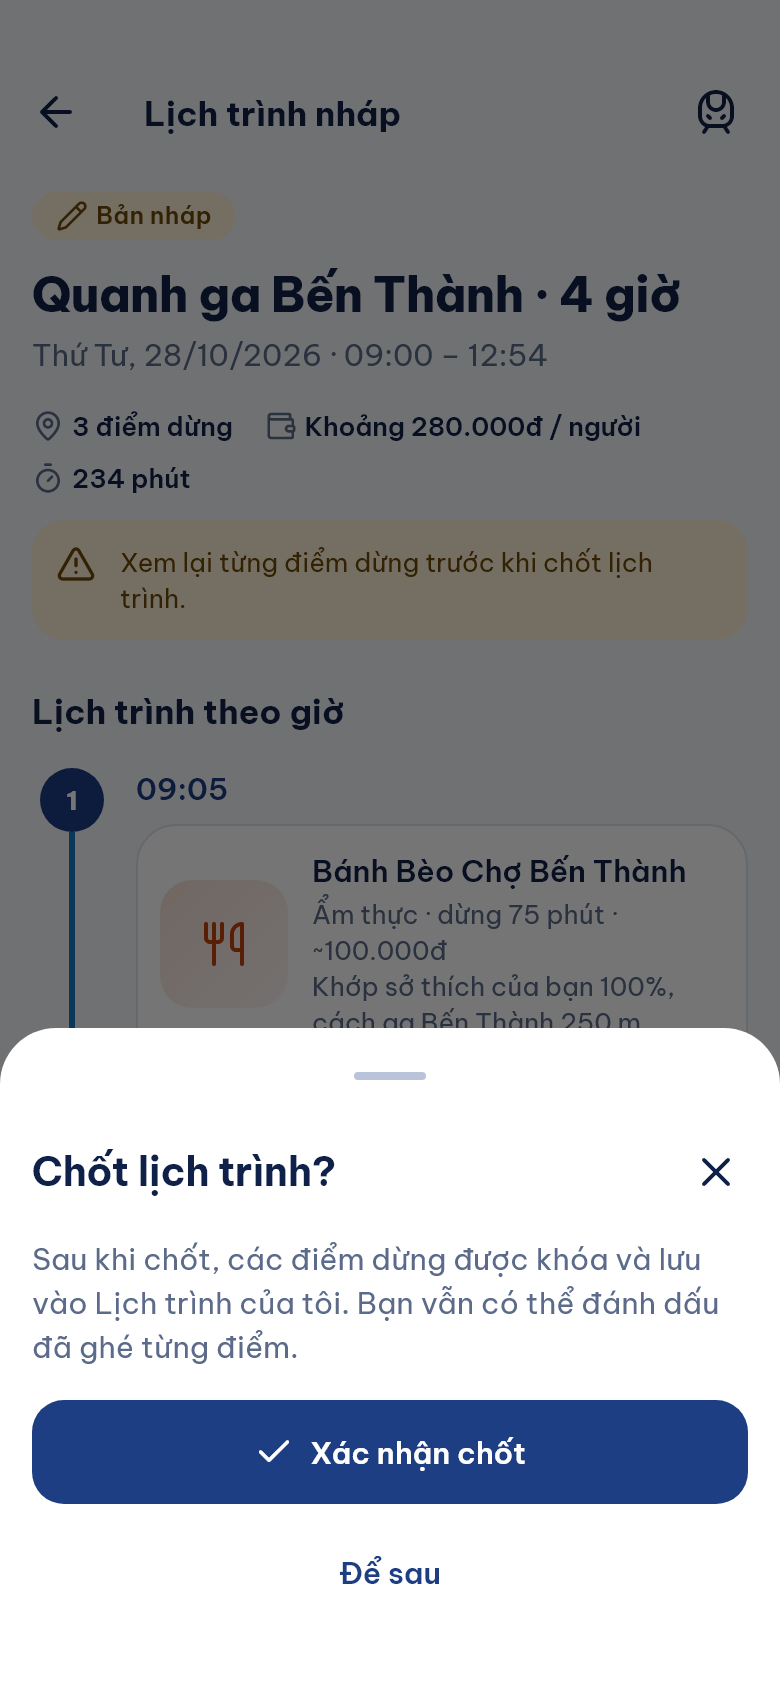
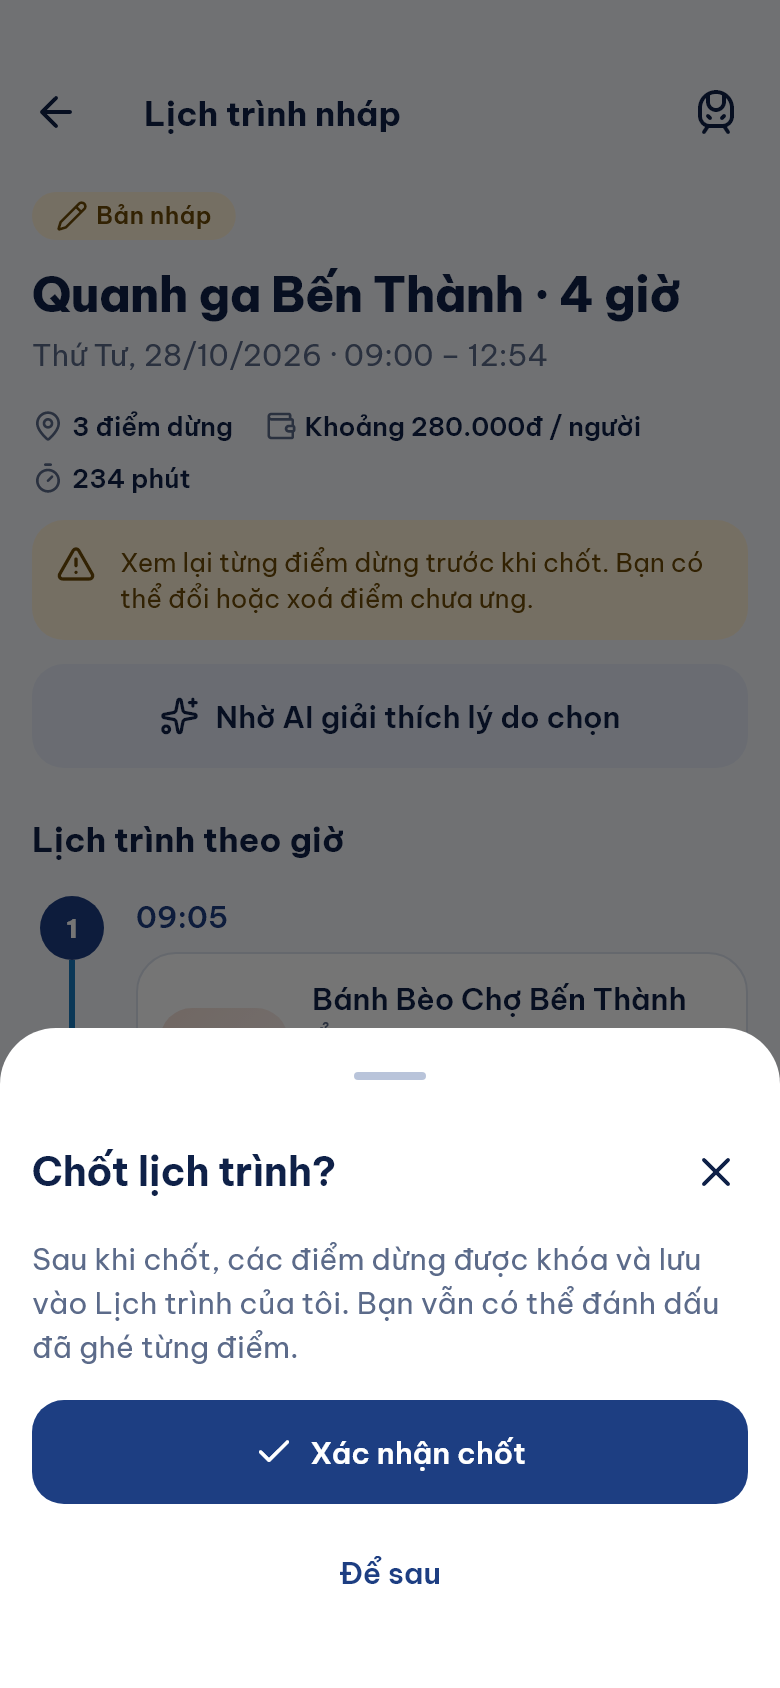
docs+polish: live backend notes, payment waiting state, new screenshots
LIVE_BACKEND.md lists the newly wired endpoints, GOOGLE_SERVER_CLIENT_ID,
and which flows are only checked against contract-shaped responses (no
SMTP, Gemini, PayOS or Google OAuth on the dev backend). Pending payments
get their own art instead of the offline picture; single prices no longer
show as a range.

diff --git a/tool/live_capture_test.dart b/tool/live_capture_test.dart
@@ -14,6 +14,7 @@ import 'package:localmate_ai_mobile/app/localmate_app.dart';
 import 'package:localmate_ai_mobile/app/router.dart';
 import 'package:localmate_ai_mobile/app/ui_providers.dart';
 import 'package:localmate_ai_mobile/features/auth/application/auth_controller.dart';
+import 'package:localmate_ai_mobile/features/trips/application/trips_providers.dart';
 
 import '../test/support/live_backend.dart';
 
@@ -108,8 +109,58 @@ void main() {
     await tap(find.text('Xác nhận chốt'));
     await shot('trip-finalized');
     await tester.pump(const Duration(seconds: 5)); // let the snackbar close
+    await tester.pumpAndSettle();
+
+    // Finalized trip: stop review and trip feedback sheets.
+    await tap(find.widgetWithText(TextButton, 'Đánh giá'));
+    await tap(find.byTooltip('4 sao'));
+    await tap(find.byKey(const ValueKey('review-tag-NearMetro')));
+    await shot('review-sheet');
+    await tap(find.byTooltip('Đóng'));
+    await tap(find.text('Đánh giá chuyến đi'));
+    await tap(find.byKey(const ValueKey('feedback-tag-Suitable')));
+    await shot('feedback-sheet');
+    await tap(find.byTooltip('Đóng'));
+
+    // Draft editing on a fresh draft.
+    backend.finalized = false;
+    container.invalidate(tripDetailProvider(backend.tripId));
+    await tester.pumpAndSettle();
+    await shot('draft-edit');
+    await tap(find.byKey(ValueKey('draft-replace-${backend.secondItemId}')));
+    await shot('replace-sheet');
+    await tap(find.byTooltip('Đóng'));
+
+    // Account: notifications, profile edit, PayOS.
+    router.go('/account');
+    await tester.pumpAndSettle();
+    await tap(find.text('Thông báo'));
+    await shot('notifications');
+    await tap(find.byTooltip('Quay lại'));
+    await tap(find.byKey(const ValueKey('account-section-Sở thích của bạn')));
+    await shot('profile-edit');
+    await tap(find.byTooltip('Quay lại'));
+    backend.payosConfigured = true;
+    await tap(
+      find.byKey(const ValueKey('account-section-Gói & quyền sử dụng')),
+    );
+    await tap(find.byKey(const ValueKey('plan-buy-TripPass')));
+    await shot('checkout-sheet');
+    backend.orderStatuses = ['Pending'];
+    await tap(find.byKey(const ValueKey('checkout-pay')));
+    await shot('payment-pending');
+    backend.orderStatuses = ['Paid'];
+    await tester.pump(const Duration(seconds: 3));
+    await shot('payment-paid');
+
     unawaited(container.read(authProvider.notifier).logout());
     await tester.pumpAndSettle();
+    router.go('/register');
+    await shot('register');
+    router.go('/forgot-password');
+    await shot('forgot-password');
+    router.go('/login');
+    await shot('login-google');
     await tester.pumpWidget(const SizedBox());
     await tester.pump(const Duration(hours: 2)); // flush remaining timers
   });

diff --git a/lib/features/payments/presentation/payment_pages.dart b/lib/features/payments/presentation/payment_pages.dart
@@ -252,7 +252,8 @@ class _PaymentStatusPageState extends ConsumerState<PaymentStatusPage> {
           ),
         ),
         'Pending' => AppStateView(
-          illustration: IllustrationKind.offline,
+          illustration: IllustrationKind.success,
+          art: const _WaitingArt(),
           title: 'Đang chờ thanh toán',
           message:
               'Hoàn tất ${_vnd(order.amount)} trên trang PayOS. Màn hình này tự cập nhật khi LocalMate nhận được xác nhận.',
@@ -292,6 +293,32 @@ class _PaymentStatusPageState extends ConsumerState<PaymentStatusPage> {
       body: SafeArea(
         top: false,
         child: Center(child: SingleChildScrollView(child: body)),
+      ),
+    );
+  }
+}
+
+/// Pending payment art, same footprint as the state illustrations. Static
+/// on purpose: the page polls quietly and the retry button shows progress.
+class _WaitingArt extends StatelessWidget {
+  const _WaitingArt();
+
+  @override
+  Widget build(BuildContext context) {
+    final scheme = context.colors;
+    return ExcludeSemantics(
+      child: Container(
+        width: AppSpacing.xxxl * 3,
+        height: AppSpacing.xxxl * 3,
+        decoration: BoxDecoration(
+          color: scheme.primaryContainer,
+          shape: BoxShape.circle,
+        ),
+        child: Icon(
+          LucideIcons.hourglass,
+          size: AppSpacing.xxxl,
+          color: scheme.primary,
+        ),
       ),
     );
   }

diff --git a/lib/core/widgets/state_views.dart b/lib/core/widgets/state_views.dart
@@ -17,9 +17,13 @@ class AppStateView extends StatelessWidget {
     this.primaryAction,
     this.secondaryAction,
     this.compact = false,
+    this.art,
   });
 
   final IllustrationKind illustration;
+
+  /// Replaces the illustration (e.g. a live progress state).
+  final Widget? art;
   final String title;
   final String message;
   final Widget? primaryAction;
@@ -41,10 +45,11 @@ class AppStateView extends StatelessWidget {
         child: Column(
           mainAxisSize: MainAxisSize.min,
           children: [
-            AppIllustration(
-              kind: illustration,
-              size: compact ? AppSpacing.xxxl * 2 : AppSpacing.xxxl * 3,
-            ),
+            art ??
+                AppIllustration(
+                  kind: illustration,
+                  size: compact ? AppSpacing.xxxl * 2 : AppSpacing.xxxl * 3,
+                ),
             const SizedBox(height: AppSpacing.lg),
             Semantics(
               header: true,

diff --git a/lib/features/trips/presentation/trip_sheets.dart b/lib/features/trips/presentation/trip_sheets.dart
@@ -482,6 +482,8 @@ class _ReplaceStopSheetState extends ConsumerState<_ReplaceStopSheet> {
     categoryLabel(p.category),
     p.costMax <= 0
         ? 'Miễn phí'
+        : p.costMin == p.costMax || p.costMin <= 0
+        ? '${formatVnd(p.costMax)}đ'
         : '${formatVnd(p.costMin)}–${formatVnd(p.costMax)}đ',
     if (p.distanceFromStationMeters != null && p.stationName != null)
       '${p.distanceFromStationMeters} m tới ga ${p.stationName}',

diff --git a/docs/LIVE_BACKEND.md b/docs/LIVE_BACKEND.md
@@ -15,7 +15,12 @@ flutter run --dart-define=API_BASE_URL=http://10.0.2.2:5286
 
 # Production
 flutter build apk --dart-define=APP_ENV=production --dart-define=API_BASE_URL=https://<api-domain>
+
+# Bật đăng nhập Google (client ID loại *web*, trùng GoogleAuth__ClientId của backend)
+flutter run --dart-define=API_BASE_URL=... --dart-define=GOOGLE_SERVER_CLIENT_ID=<web-client-id>.apps.googleusercontent.com
 ```
+
+Không có `GOOGLE_SERVER_CLIENT_ID` thì nút Google bị tắt. Android cần thêm một OAuth client loại Android (package name + SHA-1 của keystore) trong cùng Google Cloud project; việc này cấu hình trên console, không nằm trong mã nguồn.
 
 ## Chạy backend cục bộ để thử
 
@@ -39,23 +44,33 @@ Backend tự migrate và seed dữ liệu: 14 ga, khoảng 65 địa điểm, 3 
 |---|---|
 | Trang chủ / Khám phá / Chi tiết địa điểm | `GET /places/metro-clusters`, `/itineraries/curated`, `/search`, `/places/{id}` |
 | Metro / Chi tiết ga | `GET /master-data`, `/metro/journeys`, `/metro/stations/{order}/departures` |
-| Đăng nhập / phiên | `POST /auth/login`, `GET /users/me`. JWT lưu trong secure storage (namespace riêng với bản mock). Không có refresh token: khi gặp 401 hoặc token hết hạn, app tự đăng xuất và báo "Phiên đăng nhập đã hết hạn" |
-| Planner | `GET /tags` (sở thích), `POST /trips/generate` → mở thẳng lịch trình nháp vừa lưu. Khách chưa đăng nhập được mời đăng nhập trước |
-| Lịch trình của tôi | `GET /trips/my-trips`, `GET /trips/{id}`, `POST /trips/{id}/finalize`, `PUT /trips/items/{id}/visit` |
-| Tài khoản / Gói | `GET /subscription/me` (lượt tạo, lịch trình đã lưu, lượt AI), `GET /subscription/plans` (giá thật), `GET /tags` (tên sở thích đã lưu) |
+| Đăng nhập / phiên | `POST /auth/login`, `POST /auth/google`, `GET /users/me`. JWT lưu trong secure storage (namespace riêng với bản mock). Không có refresh token: khi gặp 401 hoặc token hết hạn, app tự đăng xuất và báo "Phiên đăng nhập đã hết hạn" |
+| Đăng ký (`/register`) | `POST /auth/register` → mã 6 số qua email → `/auth/register/verify`, `/auth/register/resend` (đếm ngược theo `resendAfterSeconds`). Xác thực xong app tự đăng nhập |
+| Quên mật khẩu (`/forgot-password`) | `POST /auth/password-reset/request`, `/auth/password-reset/confirm` |
+| Hồ sơ & cá nhân hóa | `PATCH /users/me` (tên, sở thích, phong cách), tên tag từ `GET /tags` |
+| Thông báo (`/notifications`) | `GET /notifications`, `/notifications/unread-count` (số chưa đọc ở Tài khoản), `POST /notifications/{id}/read`, `/notifications/read-all`. Chạm thông báo mở lịch trình / gói / Planner |
+| Planner | `GET /tags`, `POST /trips/generate` → mở thẳng lịch trình nháp. "Điền giúp tôi bằng AI": `POST /trips/parse-request` điền sẵn các bước rồi quay về bước 1 để xem lại |
+| Lịch trình nháp | `GET /trips/{id}`, đổi điểm (`GET …/alternatives`, `PUT …/replace`), xoá điểm (`DELETE /trips/{id}/items/{itemId}`), AI giải thích (`POST /trips/{id}/explanations`), chốt (`POST /trips/{id}/finalize`) |
+| Lịch trình đã chốt | `PUT /trips/items/{id}/visit`; đánh giá điểm đã ghé (`GET/POST/DELETE /trips/items/{id}/review`, nhận xét nhanh từ `master-data.reviewQuickTags`); phản hồi chuyến đi (`GET/POST /feedback/trip`, `feedbackQuickTags`) |
+| Gói & thanh toán | `GET /subscription/me`, `/subscription/plans`, `/subscription/checkout-quote`, `POST /subscription/checkout` → mở `checkoutUrl` (PayOS) bằng trình duyệt → `/payment-return?orderId&flow=subscription` hỏi `GET /subscription/orders/{id}` mỗi 3 giây tới khi Paid/Failed/Expired (tối đa 15 phút). Đơn đang mở (409 `pending_order_exists`) được mở lại thay vì tạo đơn mới. Liên kết quay về không bao giờ được coi là bằng chứng thanh toán |
+| Giao diện | Lựa chọn Sáng/Tối/Theo hệ thống lưu trên thiết bị (secure storage, khoá `localmate.prefs.themeMode`) |
 
-Lỗi ProblemDetails được map sang tiếng Việt trong `lib/core/network/api_messages.dart` (hết lượt tạo, ngoài vùng phục vụ, Metro chưa chạy, trùng địa điểm…). Lỗi từng trường từ server được hiển thị nguyên văn. Timeout, mất mạng và lỗi 5xx có thông điệp riêng.
+Lỗi ProblemDetails được map sang tiếng Việt trong `lib/core/network/api_messages.dart`. Lỗi từng trường từ server chỉ hiển thị nguyên văn khi server đã trả tiếng Việt; thông điệp mặc định tiếng Anh của ASP.NET được thay bằng câu tiếng Việt. Timeout, mất mạng và lỗi 5xx có thông điệp riêng.
 
-## Còn để TODO (đánh dấu `TODO(phase-5)` trong code)
+## Chưa kiểm chứng end-to-end
 
-- Thanh toán PayOS: `POST /subscription/checkout`, mở `checkoutUrl`, polling `GET /subscription/orders/{id}`.
-- Đăng nhập Google (cần `google_sign_in` và client ID), đăng ký + OTP, quên mật khẩu, phiên demo.
-- Đánh giá điểm dừng và chuyến đi: `POST /trips/items/{id}/review`, `POST /feedback/trip`.
-- Đổi hoặc xóa điểm dừng: `alternatives` / `replace` / `DELETE item`. AI viết lý do (`explanations`) và "Điền giúp tôi" (`parse-request`).
-- Sửa hồ sơ và sở thích (`PATCH /users/me`), thông báo (`/notifications`), lưu lựa chọn giao diện.
+Máy dev không có SMTP, khoá Gemini, cấu hình PayOS và Google OAuth nên các luồng sau mới được kiểm bằng phản hồi **đúng hình dạng hợp đồng** (ghi chú rõ trong `test/support/live_backend.dart`), chưa chạy với dịch vụ thật:
+
+- Đăng ký / quên mật khẩu thành công (backend dev trả 500 vì không gửi được email; lỗi trùng email, sai mã đã thu thật).
+- AI giải thích và "Điền giúp tôi" thành công (backend dev trả 503 `ai_unavailable`, đã thu thật).
+- PayOS: tạo đơn và trạng thái Paid (backend dev trả 502 `payment_gateway_unavailable`, đã thu thật; báo giá đã thu thật).
+- Google: ID token thật (backend trả 401 `invalid_google_token` cho token giả, đã thu thật).
+
+Chưa làm: mua lẻ một lượt chốt lịch trình (`/itinerary-purchases/*`; màn trạng thái đơn đã hỗ trợ `flow=single`), góp ý ứng dụng (`/app-feedback`), phiên demo (`/auth/demo`).
 
 ## Kiểm thử
 
 - `test/live_contract_test.dart`: decode JSON **thu từ backend thật** (`test/fixtures/live/`) bằng model của app. Ngoài ra kiểm tra HTTP client: gắn token, 401 dẫn tới đăng xuất, timeout/offline, map ProblemDetails.
-- `test/live_ui_test.dart`: chạy app ở chế độ backend (cấu hình có URL) với phản hồi thật đã thu: đăng nhập, gói, danh sách và chi tiết lịch trình, chốt, đánh dấu đã ghé, chặn khách tạo lịch trình, lỗi hết lượt.
+- `test/live_ui_test.dart`: chạy app ở chế độ backend (cấu hình có URL) với phản hồi thật đã thu: đăng nhập, gói, danh sách và chi tiết lịch trình, chốt, đánh dấu đã ghé, đánh giá điểm dừng và chuyến đi, đổi / xoá điểm nháp, AI, "Điền giúp tôi", đăng ký, quên mật khẩu, sửa hồ sơ, thông báo, PayOS (thành công, cổng lỗi, đơn đang mở, hết hạn), Google (thành công, huỷ, lỗi), chặn khách tạo lịch trình, lỗi hết lượt.
+- `test/theme_preference_test.dart`: lưu và khôi phục lựa chọn giao diện.
 - `tool/live_capture_test.dart`: chụp các màn trên vào `docs/screenshots/after/live-*.png`.

diff --git a/docs/DESIGN_DIRECTION.md b/docs/DESIGN_DIRECTION.md
@@ -138,7 +138,7 @@ Lý do, xét theo người dùng là khách du lịch đi Metro số 1 TP.HCM:
 | 24 | Sheet "Chốt lịch trình?" dẫn tới màn Đã chốt | Ở bản mock, sheet giải thích "Chưa khả dụng ở bản offline", nút xác nhận bị vô hiệu. Màn Đã chốt đã có giao diện (`FinalizedTripView`), xem qua route debug `/dev/finalized`, nối API ở Giai đoạn 4 | Không tạo trạng thái thành công giả (quy tắc handoff) |
 | 25 | Lịch trình nháp có "Xem địa điểm / Đổi điểm" từng điểm dừng | Chưa hiện ở bản mock vì điểm dừng mẫu không có `placeId`; component đã hỗ trợ `actions` | Không hiển thị hành động không có dữ liệu thật |
 | 26 | Nút "Tạo lịch trình từ ga này" (chi tiết ga) điền sẵn ga | Nút chung "Tạo lịch trình mẫu" (chưa điền sẵn ga) | Điền sẵn cần thay đổi luồng điều hướng planner; để Giai đoạn 4 |
-| 21 | Không có dark mode | Theme sáng/tối đầy đủ, **mặc định theo hệ thống** (bật sau khi mọi màn đã chuyển sang design system); đổi tại Tài khoản › Giao diện (lưu trong phiên) | Yêu cầu dự án; dùng buổi tối ngoài trời |
+| 21 | Không có dark mode | Theme sáng/tối đầy đủ, **mặc định theo hệ thống** (bật sau khi mọi màn đã chuyển sang design system); đổi tại Tài khoản › Giao diện (lưu trên thiết bị) | Yêu cầu dự án; dùng buổi tối ngoài trời |
 | 27 | Tài khoản: 2 ô thống kê hiện "—" | Ô thống kê có icon + "Chưa đồng bộ"; thêm mục **Giao diện** (Sáng / Tối / Theo hệ thống) | Không hiển thị số giả; dark mode cần nơi chọn |
 | 28 | Đăng nhập có "Tiếp tục bằng tài khoản mẫu" + "Trải nghiệm nhanh (Demo)" | "Đăng nhập mẫu" + "Điền tài khoản mẫu"; nút Google hiển thị nhưng vô hiệu kèm lý do | Backend có `/auth/demo` và Google; nối ở Giai đoạn 4 |
 | 29 | Lịch trình của tôi (trống) | Trạng thái rỗng minh họa + thẻ "Cách hoạt động" 3 bước | Chưa có `GET /api/trips/my-trips` ở bản mock; danh sách thật ở Giai đoạn 4 |
